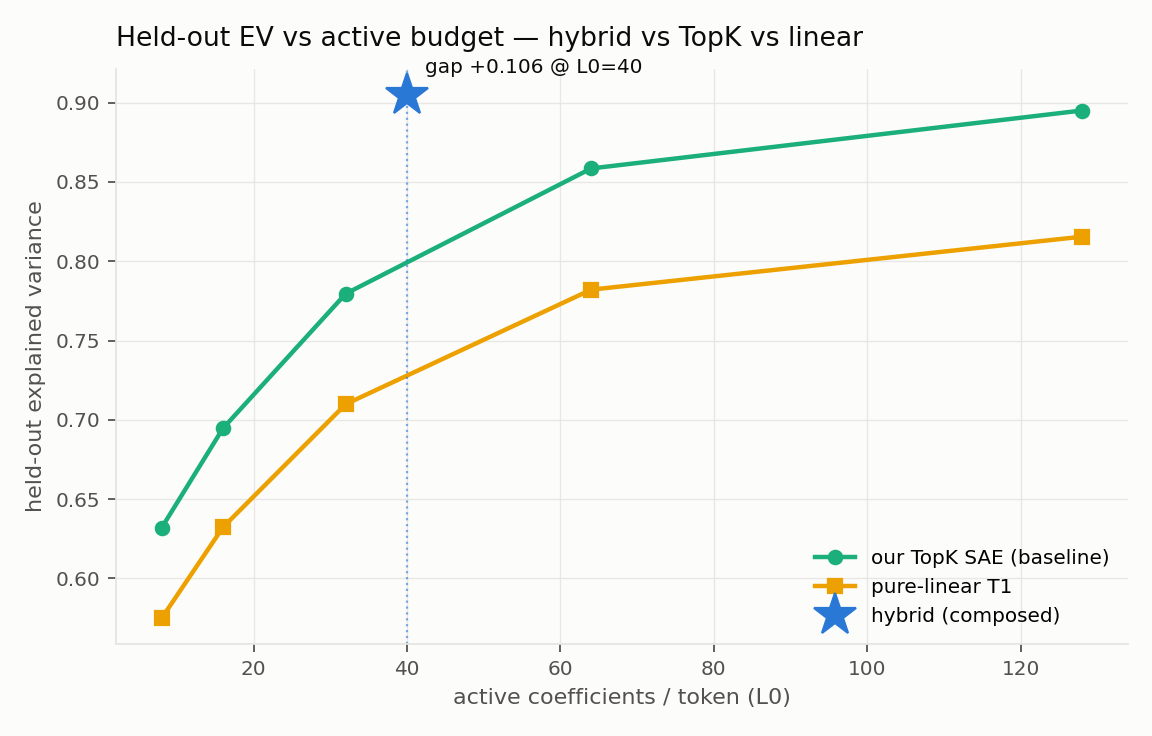
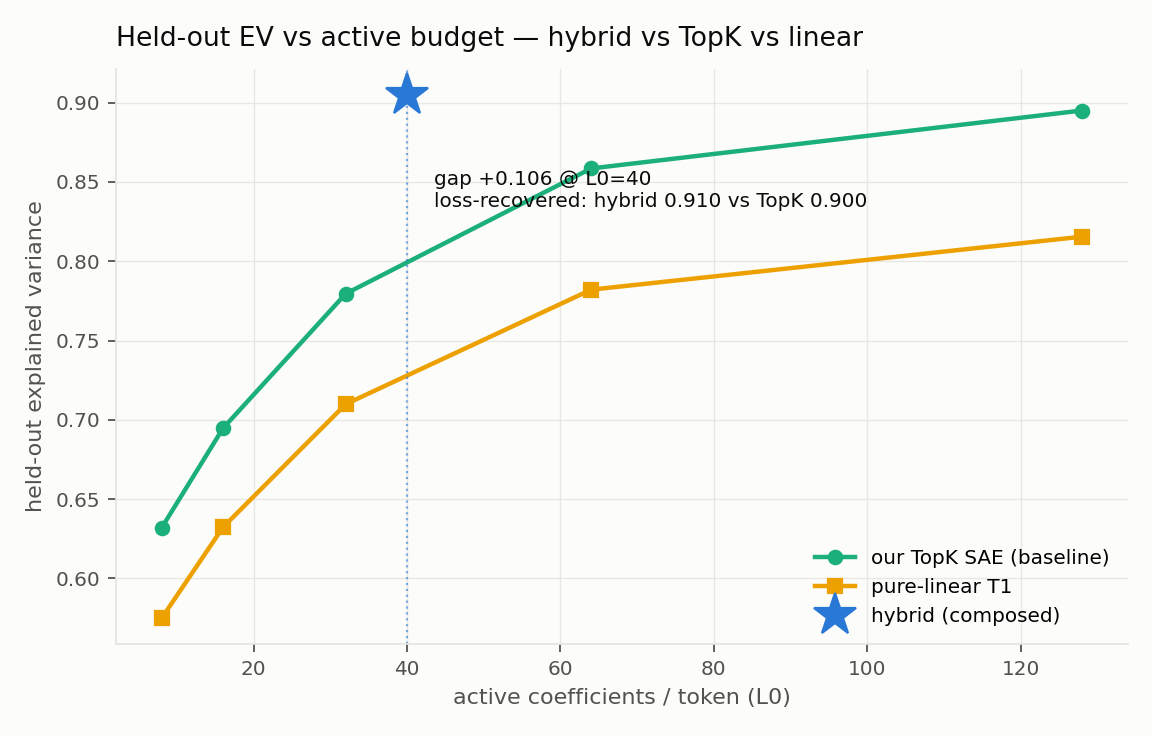
L6 EVAL: annotate loss-recovered (model currency) on headline frontier
EV alone is Euclidean, blind to how the model reads;
loss-recovered on the star is the currency it needs.
Hybrid versus TopK, the deciding fidelity shown in place,
below the point, clear of the title, in open space.

Changed region(s): [[0.375, 0.2188, 0.75, 0.2812], [0.375, 0.0625, 0.5625, 0.125]]

diff --git a/experiments/report_35b_figures.py b/experiments/report_35b_figures.py
@@ -124,7 +124,8 @@ def _get(d: dict, *keys, default=None):
 # ---------------------------------------------------------------------------------
 # Figure 1 — frontier: held-out EV vs active budget (hybrid vs TopK vs pure-linear).
 # ---------------------------------------------------------------------------------
-def fig1_frontier(t1: dict | None, compose: dict | None, out: Path) -> dict:
+def fig1_frontier(t1: dict | None, compose: dict | None, out: Path,
+                  fc: dict | None = None) -> dict:
     if not t1:
         return {"status": "PENDING", "reason": "T1 frontier not landed"}
     rows = _get(t1, "frontier", "rows", default=[])
@@ -183,9 +184,17 @@ def fig1_frontier(t1: dict | None, compose: dict | None, out: Path) -> dict:
                                         else "lane-reported (not yet canonical-recomputed)"),
                 "tss_mean_shift_ratio": _get(t1, "ratio_colmean_over_origin", default=None),
             }
-            ax.annotate(f"gap {gap:+.3f} @ L0={h_l0:g}", (h_l0, h_ev),
-                        textcoords="offset points", xytext=(8, 10),
-                        color=INK, fontsize=9)
+            # Annotate the model's-currency fidelity at the operating point too — F2
+            # loss-recovered is the DECIDING fidelity metric (EV is Euclidean-blind to
+            # the model's unequal reading of directions). Shown when CONTROL's data lands.
+            note = f"gap {gap:+.3f} @ L0={h_l0:g}"
+            if fc:
+                lr_h = _get(_get(fc, "hybrid", default={}), "loss_recovered")
+                lr_t = _get(_get(fc, "topk", default={}), "loss_recovered")
+                if lr_h is not None and lr_t is not None:
+                    note += f"\nloss-recovered: hybrid {float(lr_h):.3f} vs TopK {float(lr_t):.3f}"
+            ax.annotate(note, (h_l0, h_ev), textcoords="offset points", xytext=(12, -34),
+                        color=INK, fontsize=9, ha="left", va="top")
     _style(ax, "Held-out EV vs active budget — hybrid vs TopK vs linear",
            "active coefficients / token (L0)", "held-out explained variance")
     ax.legend(frameon=False, fontsize=9, loc="lower right")
@@ -1007,7 +1016,7 @@ def run(artifacts_dir: Path, report_path: Path | None = None) -> dict:
                 or _load(REPO / "data" / "l17" / "split_manifest.json"))
     tier0_present = (REPO / "data" / "l17" / "tier0.json").exists()
     results = {
-        "fig1": fig1_frontier(t1, compose, FIGDIR / "fig1_frontier.png"),
+        "fig1": fig1_frontier(t1, compose, FIGDIR / "fig1_frontier.png", fc),
         "fig2": fig2_theta_dev(compose, FIGDIR / "fig2_theta_dev.png", nc),
         "fig3": fig3_gallery(compose, FIGDIR / "fig3_gallery.png"),
         "fig4": fig4_mdl(mdl, FIGDIR / "fig4_mdl.png"),